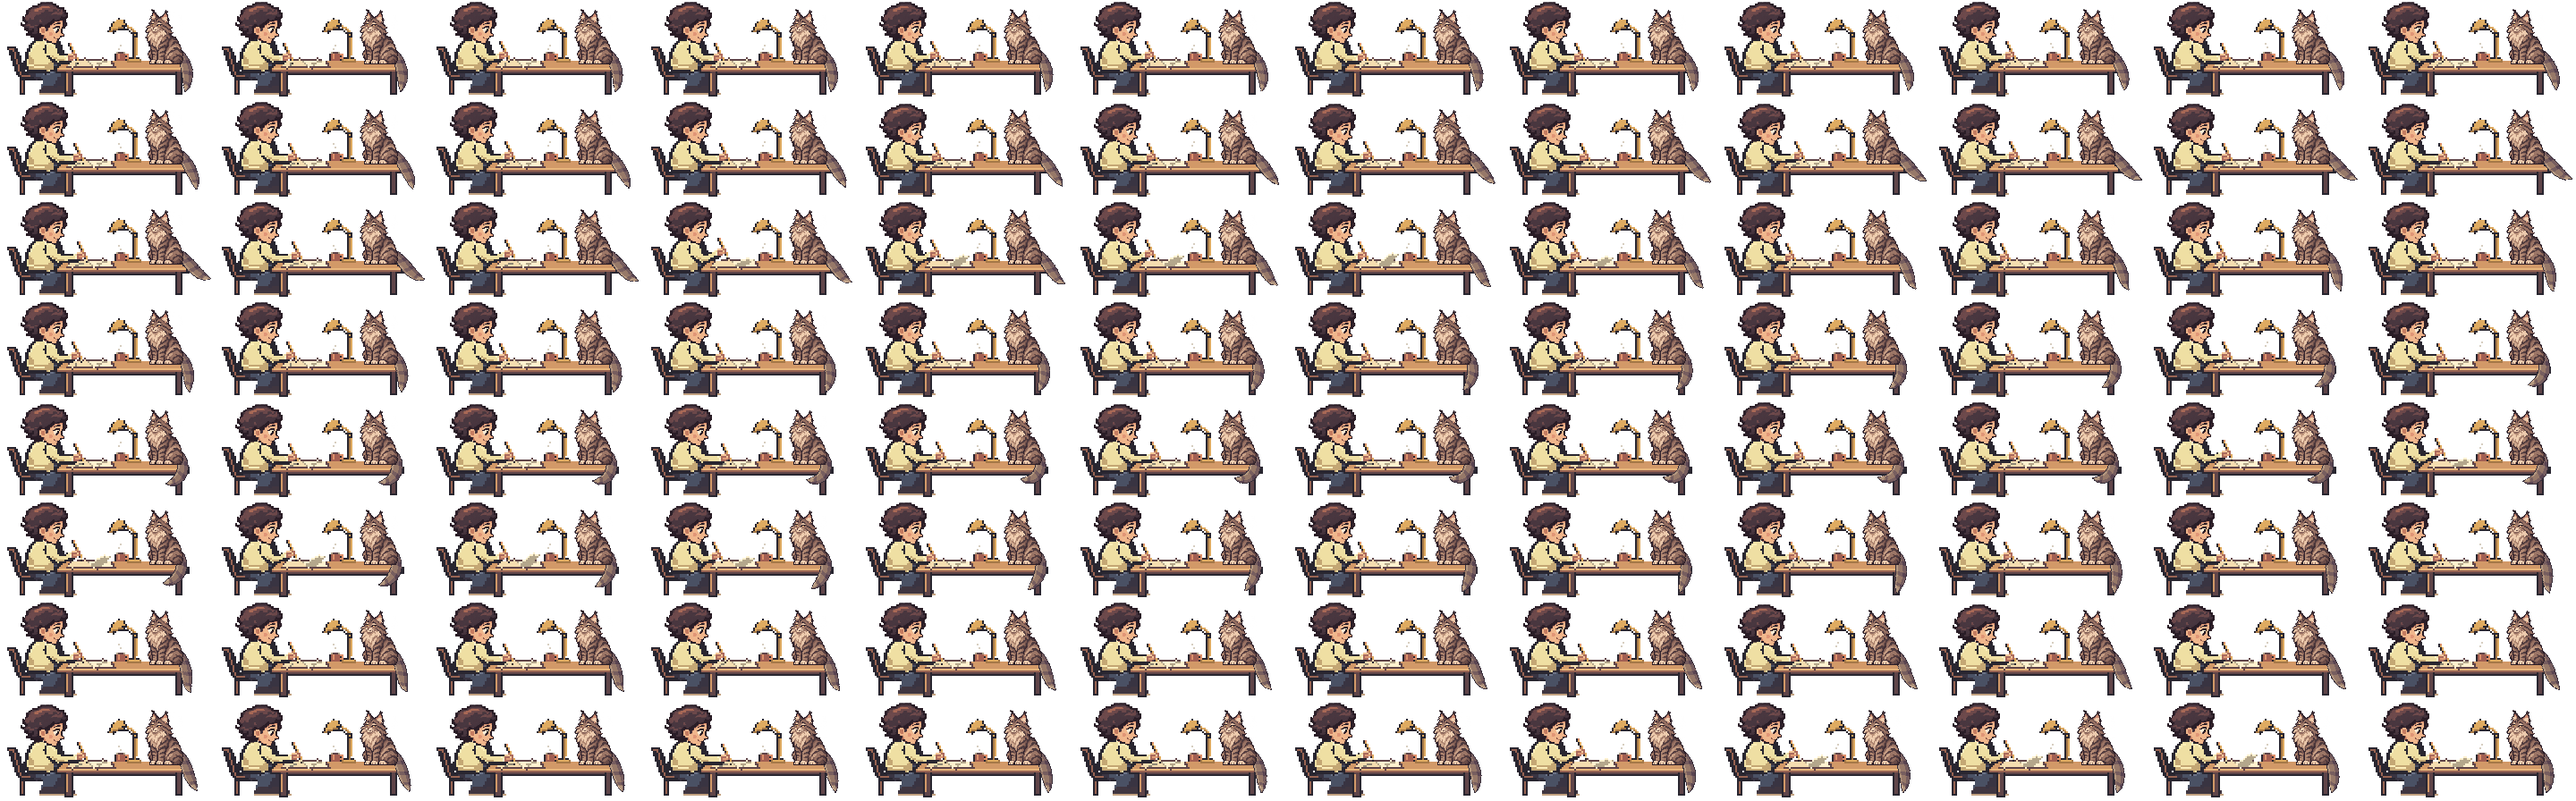
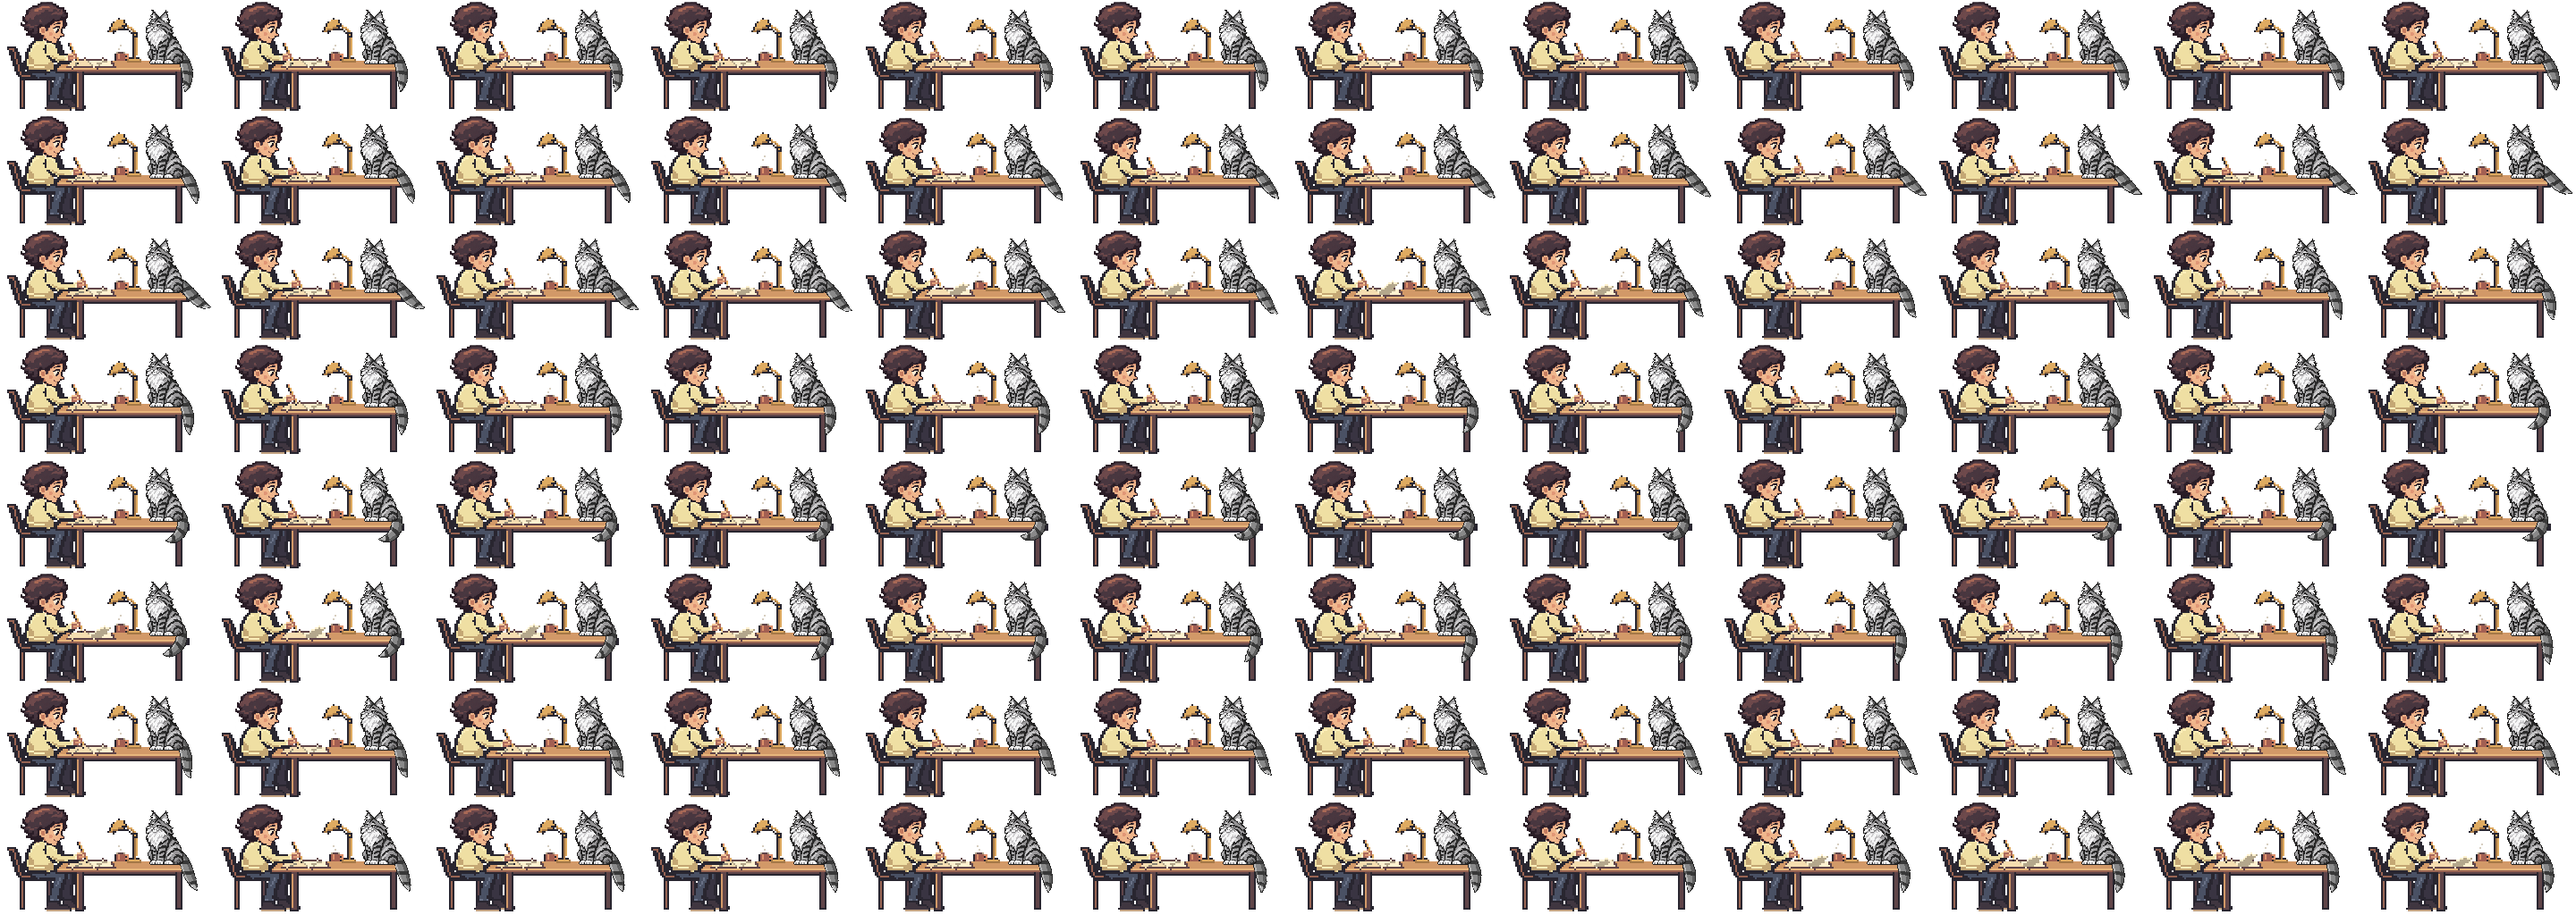
Raise the writing desk, lengthen the seated pose, and give the Maine Coon a silver coat

diff --git a/styles.css b/styles.css
@@ -168,7 +168,7 @@ body { isolation: isolate; padding-top: var(--header-height); }
   --header-height: clamp(64px, 9svh, 88px);
   --writer-width: clamp(150px, 14.73vw, 240px);
   --writer-gap: clamp(4px, 1vw, 16px);
-  --writer-safe: calc(var(--writer-width) * 56 / 120 + 6px + env(safe-area-inset-bottom, 0px));
+  --writer-safe: calc(var(--writer-width) * 64 / 120 + 6px + env(safe-area-inset-bottom, 0px));
   --frame: min(84%, 1240px);
   --inset: clamp(18px, 1.9vw, 32px);
   --rail-line: color-mix(in srgb, var(--ink) 7%, transparent);
@@ -460,7 +460,7 @@ body { isolation: isolate; padding-top: var(--header-height); }
   .welcome-heading h1 span { display: inline-block; }
   .welcome-zh { margin-top: 6px; font-size: 17px; }
   .enter-work { margin-top: 12px; }
-  .welcome-art { width: min(100%, 408px, max(144px, calc((100svh - 412px) * 120 / 56))); }
+  .welcome-art { width: min(100%, 408px, max(144px, calc((100svh - 412px) * 120 / 64))); }
   .welcome-quotation { width: 100%; max-width: 47ch; justify-self: start; }
   .welcome-quotation::before { display: none; }
   .welcome-quotation [lang="zh-Hans"] { font-size: 20px; line-height: 1.45; }
@@ -546,15 +546,15 @@ body { isolation: isolate; padding-top: var(--header-height); }
 }
 .pixel-writer {
   display: block;
-  aspect-ratio: 120 / 56;
+  aspect-ratio: 120 / 64;
   image-rendering: pixelated;
-  background: url("./assets/writing-studio.webp") 0 0 / 1200% 800% no-repeat;
+  background: url("./assets/writing-studio.webp?v=silver-tabby") 0 0 / 1200% 800% no-repeat;
 }
 :root[data-appearance="dark"] .pixel-writer::after {
   content: "";
   position: absolute;
   inset: 0;
-  background: url("./assets/desk-lamplight.png") center / 100% 100% no-repeat;
+  background: url("./assets/desk-lamplight.png") center top / 100% auto no-repeat;
 }
 /* Twelve frames across, eight rows. Each step moves exactly one frame. */
 @keyframes desk-columns { to { background-position-x: calc(1200% / 11); } }

diff --git a/index.html b/index.html
@@ -6,7 +6,7 @@
   <meta name="theme-color" content="#141414">
   <meta name="description" content="Yilin’s Daily Work · 日常工作手记. A personal home for projects, tasks, and progress.">
   <link rel="icon" href="./favicon.svg" type="image/svg+xml">
-  <link rel="stylesheet" href="./styles.css?v=writing-hero">
+  <link rel="stylesheet" href="./styles.css?v=silver-tabby">
   <title>Yilin’s Daily Work · 日常工作手记</title>
   <script defer src="./app.js?v=writing-hero"></script>
 </head>
@@ -35,7 +35,7 @@
           <p class="welcome-zh" lang="zh-Hans">Yilin 的日常工作</p>
           <a class="enter-work" href="#overview">Enter workspace <span lang="zh-Hans">进入工作台</span><i data-icon="arrow"></i></a>
         </div>
-        <div class="welcome-art pixel-writer" role="img" aria-label="A writer in a pale yellow sweater writes beside a Maine Coon, its fluffy tail swaying over the desk."></div>
+        <div class="welcome-art pixel-writer" role="img" aria-label="A writer in a pale yellow sweater sits at a tall wooden desk. A black, gray and white Maine Coon sways its fluffy tail over the edge."></div>
         <blockquote class="welcome-quotation">
           <p lang="zh-Hans">日积跬步，终至千里</p>
           <p lang="en">A step with every dawn,<br>till a thousand miles lie behind.</p>
